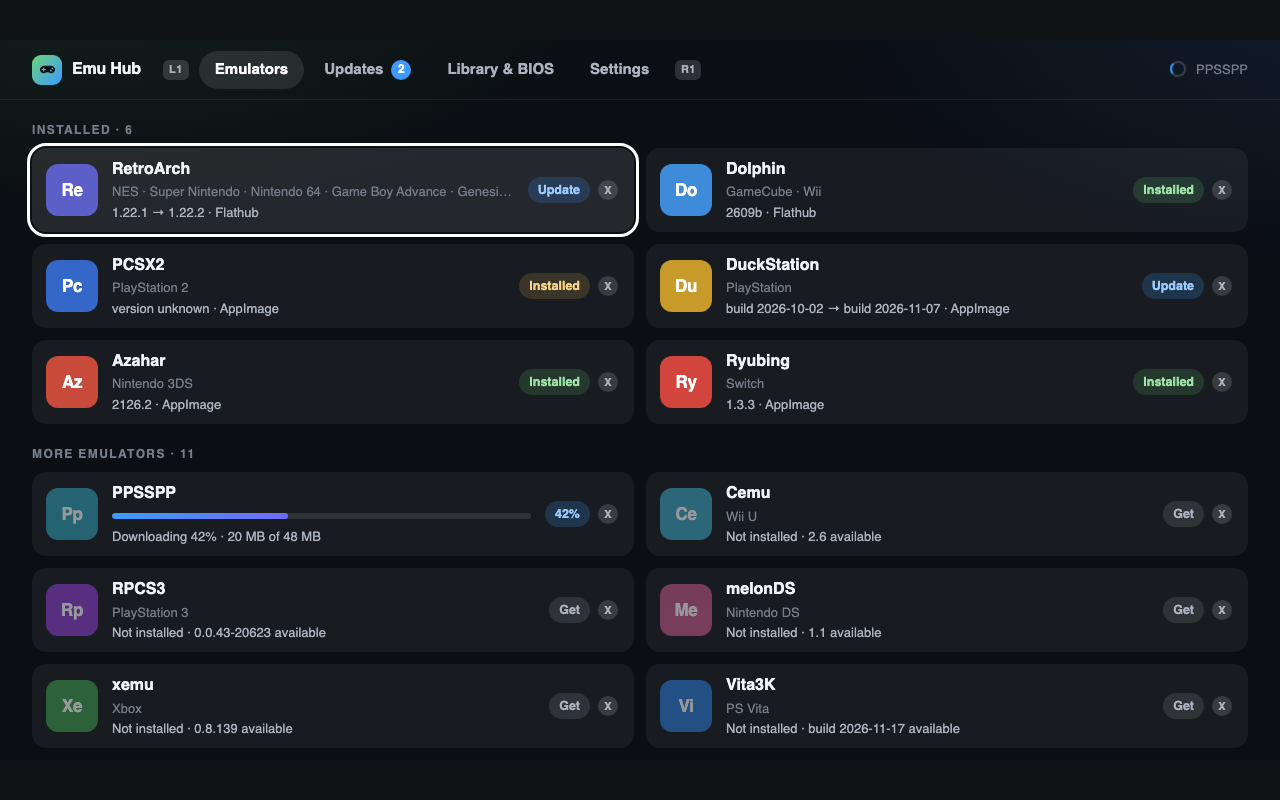
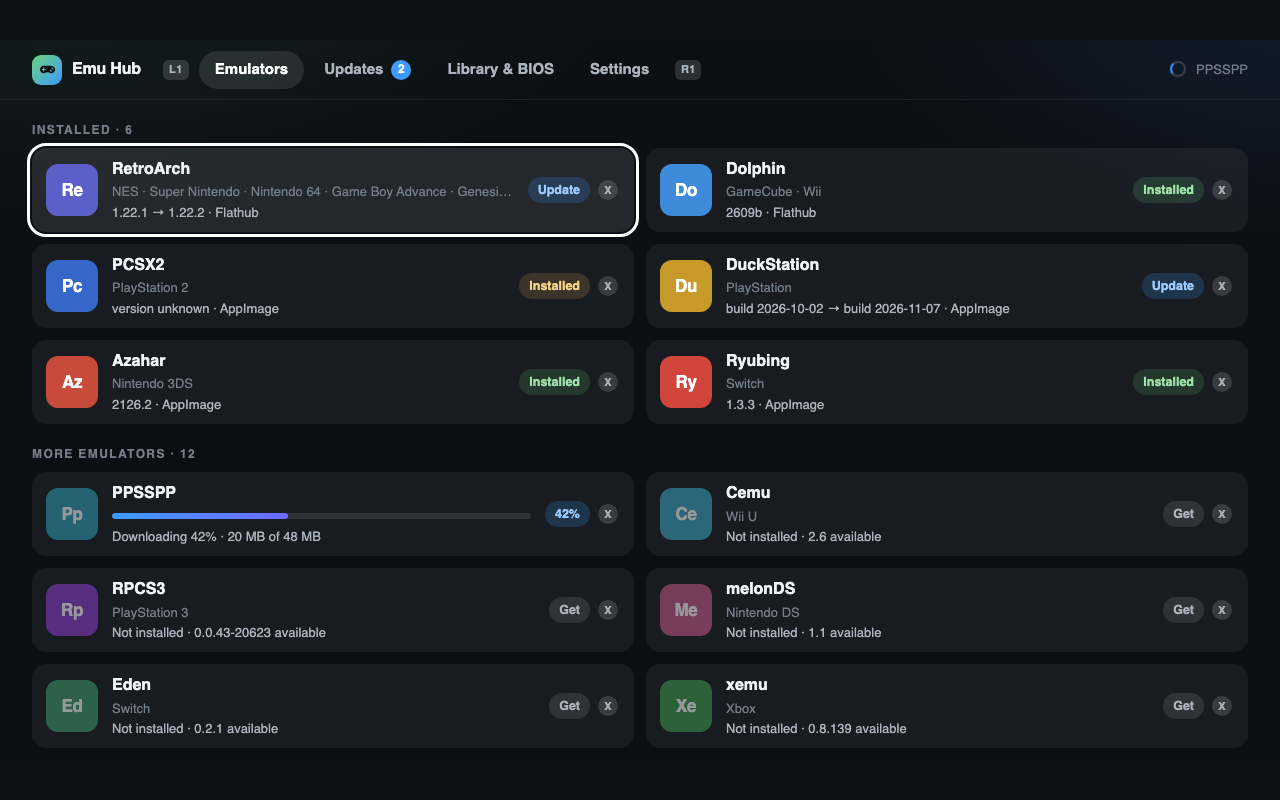
Add Eden (Switch): Forgejo releases, Flathub fallback, Deck preset with Qt game list, keys check

diff --git a/tools/preview/mock-api.ts b/tools/preview/mock-api.ts
@@ -67,6 +67,7 @@ const EMULATORS: Emulator[] = [
   base({ id: "ryubing", name: "Ryubing", consoles: ["Switch"], method: "appimage", source: "forgejo", blurb: "Nintendo Switch (the maintained Ryujinx). Needs your own keys and firmware.",
     installed: app("Ryujinx.AppImage", "1.3.3"), latest: "1.3.3",
     preset: { state: "waiting", summary: "Fullscreen, Switch folder in the game list, no exit prompt, no update check, docked mode.", backup: false } }),
+  base({ id: "eden", name: "Eden", consoles: ["Switch"], method: "appimage", source: "forgejo", blurb: "Nintendo Switch (from the yuzu family). Needs your own keys and firmware.", latest: "0.2.1" }),
   base({ id: "xemu", name: "xemu", consoles: ["Xbox"], method: "appimage", source: "github", blurb: "Original Xbox.", latest: "0.8.139" }),
   base({ id: "vita3k", name: "Vita3K", consoles: ["PS Vita"], method: "appimage", source: "github", blurb: "PlayStation Vita.", latest: "build 2026-11-17" }),
   base({ id: "shadps4", name: "shadPS4", consoles: ["PlayStation 4"], method: "flatpak", source: "flathub", blurb: "PlayStation 4 (early; few games run well).", latest: "0.20.0" }),
@@ -139,7 +140,7 @@ const library = (): LibraryInfo => ({
     { console: "psx", label: "PlayStation BIOS", files: ["scph5501.bin", "scph5500.bin", "scph5502.bin"], hint: null, optional: false, found: "/home/deck/Emulation/bios/scph5501.bin", folder: "/home/deck/Emulation/bios" },
     { console: "ps2", label: "PlayStation 2 BIOS", files: [], hint: "any PS2 BIOS dump (.bin) for PCSX2", optional: false, found: null, folder: "/home/deck/Emulation/bios" },
     { console: "ps3", label: "PS3 system software", files: [], hint: "install PS3UPDAT.PUP from inside RPCS3 (File → Install Firmware)", optional: false, found: null, folder: null },
-    { console: "switch", label: "Switch keys", files: [], hint: "prod.keys from your own Switch, then firmware from inside Ryubing", optional: false, found: null, folder: null },
+    { console: "switch", label: "Switch keys", files: [], hint: "prod.keys from your own Switch, then firmware from inside Ryubing or Eden", optional: false, found: null, folder: null },
     { console: "dreamcast", label: "Dreamcast BIOS", files: ["dc/dc_boot.bin", "dc_boot.bin"], hint: "Flycast runs most games without it", optional: true, found: null, folder: "/home/deck/Emulation/bios" },
     { console: "nds", label: "DS BIOS and firmware", files: ["bios7.bin", "bios9.bin", "firmware.bin"], hint: "melonDS runs most games without them", optional: true, found: null, folder: "/home/deck/Emulation/bios" },
   ],

diff --git a/src/components/ui.tsx b/src/components/ui.tsx
@@ -29,7 +29,7 @@ export const Progress: FC<{ value: number }> = ({ value }) => (
 /** A colour per emulator, for its icon tile. */
 const TINTS: Record<string, string> = {
   retroarch: "#5b5fc7", dolphin: "#3d8bd9", pcsx2: "#3567c9", duckstation: "#c79a2a", ppsspp: "#2f9fb8",
-  cemu: "#3aa3c2", rpcs3: "#8c3fd0", azahar: "#c74a3a", melonds: "#c45a8a", ryubing: "#d2453c",
+  cemu: "#3aa3c2", rpcs3: "#8c3fd0", azahar: "#c74a3a", melonds: "#c45a8a", ryubing: "#d2453c", eden: "#3f9b6e",
   xemu: "#3e9b4f", vita3k: "#2b7ad6", shadps4: "#5b6ad6", flycast: "#d9822b", primehack: "#d06a2a",
   scummvm: "#46a36a", mame: "#8a8f99",
 };

diff --git a/tests/test_configs.py b/tests/test_configs.py
@@ -60,6 +60,21 @@ class FormatTest(unittest.TestCase):
         self.assertEqual(out["game_dirs"], ["/mine", "/lib/switch"])
         self.assertTrue(out["start_fullscreen"])
 
+    def test_qt_gamedirs(self):
+        text = (
+            "[UI]\nPaths\\gamedirs\\1\\path=SDMC\nPaths\\gamedirs\\2\\path=UserNAND\n"
+            "Paths\\gamedirs\\size=2\nfullscreen=false\n[System]\nuse_docked_mode=1\n"
+        )
+        self.assertEqual(configfmt.qt_gamedirs(text), ["SDMC", "UserNAND"])
+        out = configfmt.qt_gamedir_add(text, "/lib/roms/switch")
+        self.assertEqual(configfmt.qt_gamedirs(out), ["SDMC", "UserNAND", "/lib/roms/switch"])
+        self.assertEqual(configfmt.ini_get(out, "UI", "Paths\\gamedirs\\size"), "3")
+        self.assertEqual(configfmt.ini_get(out, "UI", "Paths\\gamedirs\\3\\deep_scan"), "false")
+        self.assertEqual(configfmt.qt_gamedir_add(out, "/lib/roms/switch"), out)      # never twice
+        self.assertIn("[System]\nuse_docked_mode=1", out)                              # other sections kept
+        empty = configfmt.qt_gamedir_add("", "/r")
+        self.assertEqual(configfmt.qt_gamedirs(empty), ["/r"])
+
     def test_xml_keeps_the_rest_of_the_file(self):
         text = (
             '<?xml version="1.0" encoding="UTF-8"?>\n<content>\n\t<logflag>0</logflag>\n'
@@ -178,6 +193,22 @@ class PresetTest(unittest.TestCase):
         self.assertEqual(data["version"], 73)
         self.assertEqual(data["game_dirs"], [f"{self.root}/roms/switch"])
 
+    def test_eden_preset(self):
+        target = self.path(".config/eden/qt-config.ini")
+        self.assertEqual(presets.status("eden", "appimage", self.home, self.root), "waiting")
+        os.makedirs(os.path.dirname(target))
+        with open(target, "w") as handle:
+            handle.write("[UI]\nfullscreen=false\nfullscreen\\default=true\nPaths\\gamedirs\\1\\path=SDMC\n"
+                         "Paths\\gamedirs\\size=1\n[Renderer]\nbackend=1\n")
+        self.assertTrue(presets.apply("eden", "eden", "appimage", self.home, self.root, self.backups)["ok"])
+        self.assertEqual(presets.status("eden", "appimage", self.home, self.root), "applied")
+        with open(target) as handle:
+            text = handle.read()
+        self.assertEqual(configfmt.ini_get(text, "UI", "fullscreen"), "true")
+        self.assertEqual(configfmt.ini_get(text, "UI", "fullscreen\\default"), "false")
+        self.assertEqual(configfmt.qt_gamedirs(text), ["SDMC", f"{self.root}/roms/switch"])
+        self.assertIn("[Renderer]\nbackend=1", text)
+
     def test_emudeck_folder_names_win(self):
         os.makedirs(os.path.join(self.root, "roms", "gamecube"))
         self.assertTrue(presets.apply("dolphin", "dolphin", "flatpak", self.home, self.root, self.backups)["ok"])
@@ -204,7 +235,7 @@ class PresetTest(unittest.TestCase):
                 for spec in files:
                     if not spec.get("create"):
                         os.makedirs(os.path.dirname(spec["abs"]), exist_ok=True)
-                        seed = {"json": "{}", "xml": "<content></content>", "yaml": "Core:\n  x: 1\n"}[spec["format"]]
+                        seed = {"json": "{}", "xml": "<content></content>", "yaml": "Core:\n  x: 1\n", "qtini": "[UI]\n"}[spec["format"]]
                         with open(spec["abs"], "w") as handle:
                             handle.write(seed)
                 if not files:

diff --git a/backend/presets.py b/backend/presets.py
@@ -230,6 +230,25 @@ PRESETS: Dict[str, Dict[str, Any]] = {
                     "docked_mode": True, "game_dirs": ["{roms:switch}"]},
         }],
     },
+    # UNTESTED ON A DECK. Key names from EmuDeck's configs/eden/config/qt-config.ini.
+    # A Qt key with `\\default=true` beside it is ignored, so both are written.
+    "eden": {
+        "summary": "Fullscreen, Switch folder in the game list, no exit prompt, no first-start wizard.",
+        "files": [{
+            "path": {"appimage": ".config/eden/qt-config.ini",
+                     "flatpak": ".var/app/dev.eden_emu.eden/config/eden/qt-config.ini"},
+            "format": "qtini",
+            "create": False,
+            "set": {
+                "keys": {"UI": {
+                    "fullscreen": "true", "fullscreen\\default": "false",
+                    "confirmClose": "false", "confirmClose\\default": "false",
+                    "firstStart": "false", "firstStart\\default": "false",
+                }},
+                "gamedirs": ["{roms:switch}"],
+            },
+        }],
+    },
     # UNTESTED ON A DECK
     "xemu": {
         "summary": "No welcome screen, no boot animation, MCPX boot ROM from the BIOS folder.",
@@ -302,6 +321,12 @@ def _apply_format(fmt: str, text: str, updates: Any, sep: Optional[str]) -> str:
         return configfmt.xml_set(text, updates)
     if fmt == "yaml":
         return configfmt.yaml_set(text, updates)
+    if fmt == "qtini":
+        # Qt settings (yuzu family): plain keys, plus folders for the game list.
+        text = configfmt.ini_set(text, updates.get("keys", {}), sep="=")
+        for folder in updates.get("gamedirs", []):
+            text = configfmt.qt_gamedir_add(text, folder)
+        return text
     raise ValueError(fmt)
 
 
@@ -317,6 +342,10 @@ def _read_back(fmt: str, text: str, updates: Any) -> bool:
         return all(configfmt.same(configfmt.json_get(text, key), wanted) for key, wanted in updates.items())
     if fmt == "xml":
         return all(configfmt.same(configfmt.xml_get(text, key), wanted) for key, wanted in updates.items())
+    if fmt == "qtini":
+        dirs = configfmt.qt_gamedirs(text)
+        return (_read_back("ini", text, updates.get("keys", {}))
+                and all(folder in dirs for folder in updates.get("gamedirs", [])))
     return False
 
 

diff --git a/backend/configfmt.py b/backend/configfmt.py
@@ -256,6 +256,39 @@ def xml_get(text: str, tag: str) -> Any:
     return "" if "<" in inner else _xml_unescape(inner)
 
 
+def qt_gamedirs(text: str, section: str = "UI") -> List[str]:
+    """Folders in a Qt settings list `Paths\\gamedirs\\<n>\\path` (yuzu family)."""
+    lines = text.splitlines()
+    pattern = re.compile(r"^\s*Paths\\gamedirs\\(\d+)\\path\s*=\s*(.*?)\s*$")
+    found: List[Tuple[int, str]] = []
+    for name, start, end in _sections(lines):
+        if name != section:
+            continue
+        for i in range(start, end):
+            m = pattern.match(lines[i])
+            if m:
+                found.append((int(m.group(1)), m.group(2)))
+    return [path for _, path in sorted(found)]
+
+
+def qt_gamedir_add(text: str, path: str, section: str = "UI") -> str:
+    """Append a folder to that list (index size+1, then size), unless it is there."""
+    if path in qt_gamedirs(text, section):
+        return text
+    try:
+        size = int(ini_get(text, section, "Paths\\gamedirs\\size") or 0)
+    except ValueError:
+        size = 0
+    n = max(size, len(qt_gamedirs(text, section))) + 1
+    base = f"Paths\\gamedirs\\{n}\\"
+    return ini_set(text, {section: {
+        base + "deep_scan": "false", base + "deep_scan\\default": "true",
+        base + "expanded": "true", base + "expanded\\default": "true",
+        base + "path": path,
+        "Paths\\gamedirs\\size": str(n),
+    }}, sep="=")
+
+
 def yaml_scalar(value: Any) -> str:
     if isinstance(value, bool):
         return "true" if value else "false"

diff --git a/tests/test_install.py b/tests/test_install.py
@@ -80,6 +80,14 @@ class DetectTest(unittest.TestCase):
         self.assertIn("vita3k", found)
         self.assertIn("ryubing", found)
 
+    def test_emudeck_eden_appimage(self):
+        write(os.path.join(self.home, "Applications", "Eden.AppImage"), ELF)
+        found = detect.detect_all(self.home, {}, {})
+        self.assertEqual(found["eden"]["method"], "appimage")
+        self.assertNotIn("ryubing", found)
+        found = detect.detect_all(tempfile.mkdtemp(), {}, {"dev.eden_emu.eden": {"version": "0.2.1", "installation": "user"}})
+        self.assertEqual(found["eden"]["app_id"], "dev.eden_emu.eden")
+
     def test_flathub_copy_of_an_appimage_emulator(self):
         found = detect.detect_all(self.home, {}, {"org.ppsspp.PPSSPP": {"version": "1.20.3", "installation": "system"}})
         self.assertEqual(found["ppsspp"], {"method": "flatpak", "app_id": "org.ppsspp.PPSSPP", "version": "1.20.3",
@@ -130,6 +138,9 @@ class BiosTest(unittest.TestCase):
         write(os.path.join(folder, "SCPH-70012_BIOS_V12_USA_200.BIN"))
         self.assertTrue(bios.report(["ps2"], folder, home)[0]["found"].endswith("200.BIN"))
         self.assertTrue(report["switch"]["found"].endswith("prod.keys"))
+        eden_only = tempfile.mkdtemp()
+        write(os.path.join(eden_only, ".local", "share", "eden", "keys", "prod.keys"))
+        self.assertIn("/eden/keys/prod.keys", bios.report(["switch"], folder, eden_only)[0]["found"])
 
 
 class Server:

diff --git a/backend/catalogue.py b/backend/catalogue.py
@@ -164,6 +164,23 @@ EMULATORS: List[Dict[str, Any]] = [
         "preset": "ryubing",
     },
     {
+        "id": "eden",
+        "name": "Eden",
+        "blurb": "Nintendo Switch (from the yuzu family). Needs your own keys and firmware.",
+        "consoles": ["switch"],
+        "method": "appimage",
+        "file": "Eden.AppImage",
+        # Eden's GitHub releases repository was taken down (DMCA, March 2026);
+        # it publishes from its own Forgejo, files served by stable.eden-emu.dev.
+        # amd64 builds need x86-64-v3, which the Deck's Zen 2 has; "legacy" is
+        # for older CPUs. clang-pgo is the build Eden recommends.
+        "source": {"type": "forgejo", "api": "https://git.eden-emu.dev/api/v1/repos/eden-emu/eden",
+                   "asset": r"^Eden-Linux-v[0-9.]+-amd64-clang-pgo\.AppImage$"},
+        "flatpak_alt": "dev.eden_emu.eden",
+        "detect": [r"^eden.*\.appimage$"],
+        "preset": "eden",
+    },
+    {
         "id": "xemu",
         "name": "xemu",
         "blurb": "Original Xbox. Needs your own BIOS, MCPX boot ROM and hard disk image.",

diff --git a/tests/test_catalogue.py b/tests/test_catalogue.py
@@ -29,7 +29,7 @@ class CatalogueTest(unittest.TestCase):
 
     def test_required_emulators_present(self):
         for wanted in ("retroarch", "dolphin", "pcsx2", "duckstation", "ppsspp", "cemu", "rpcs3", "azahar",
-                       "melonds", "ryubing", "xemu", "vita3k", "shadps4", "flycast", "scummvm", "mame", "primehack"):
+                       "melonds", "ryubing", "eden", "xemu", "vita3k", "shadps4", "flycast", "scummvm", "mame", "primehack"):
             self.assertIn(wanted, catalogue.BY_ID)
 
     def test_every_source_has_a_fixture_and_picks_one_linux_file(self):
@@ -42,6 +42,7 @@ class CatalogueTest(unittest.TestCase):
             "azahar": ("azahar.AppImage", "2126.2"),
             "melonds": ("melonDS-1.1-appimage-x86_64.zip", "1.1"),
             "ryubing": ("ryujinx-1.3.3-x64.AppImage", "1.3.3"),
+            "eden": ("Eden-Linux-v0.2.1-amd64-clang-pgo.AppImage", "0.2.1"),
             "xemu": ("xemu-0.8.139-x86_64.AppImage", "0.8.139"),
             "vita3k": ("Vita3K-x86_64.AppImage", None),
             "flycast": ("flycast-x86_64-2.7.AppImage", "2.7"),

diff --git a/backend/bios.py b/backend/bios.py
@@ -37,8 +37,10 @@ BIOS: Dict[str, Dict[str, Any]] = {
     "switch": {
         "label": "Switch keys",
         "home_paths": [".config/Ryujinx/system/prod.keys",
-                       ".var/app/io.github.ryubing.Ryujinx/config/Ryujinx/system/prod.keys"],
-        "hint": "prod.keys from your own Switch, then firmware from inside Ryubing",
+                       ".var/app/io.github.ryubing.Ryujinx/config/Ryujinx/system/prod.keys",
+                       ".local/share/eden/keys/prod.keys",
+                       ".var/app/dev.eden_emu.eden/data/eden/keys/prod.keys"],
+        "hint": "prod.keys from your own Switch, then firmware from inside Ryubing or Eden",
     },
     "xbox": {
         "label": "Xbox MCPX boot ROM",

diff --git a/tests/test_service.py b/tests/test_service.py
@@ -46,7 +46,7 @@ class ServiceTest(unittest.TestCase):
     def test_state_and_update_check(self):
         state = asyncio.run(self.svc.check_updates(force=True))
         views = {v["id"]: v for v in state["emulators"]}
-        self.assertEqual(len(views), 17)
+        self.assertEqual(len(views), 18)
         self.assertEqual(views["pcsx2"]["installed"]["method"], "appimage")
         self.assertTrue(views["pcsx2"]["unknown_version"])
         self.assertFalse(views["pcsx2"]["update"])

diff --git a/AGENTS.md b/AGENTS.md
@@ -349,7 +349,7 @@ is installed…" and Settings stayed empty, because `configfmt.py` imported
 - **Presets are untested on a Deck**, each of them. PCSX2/DuckStation pad
   bindings assume the Deck's controller is SDL pad 0 under Steam Input (true
   for EmuDeck's configs, which use the same names). Dolphin, Cemu, Azahar,
-  Ryubing, xemu, Flycast get no controller mapping; their own auto-mapping
+  Ryubing, Eden, xemu, Flycast get no controller mapping; their own auto-mapping
   applies. melonDS, Vita3K, shadPS4, ScummVM and MAME have no preset yet.
 - shadPS4 is installed from Flathub: upstream's Linux zip is the command-line
   build, and the launcher with a game list is only published as pre-releases.
@@ -357,6 +357,17 @@ is installed…" and Settings stayed empty, because `configfmt.py` imported
   updated through flatpak, new installs use the AppImage.
 - Ryubing is on its own Forgejo (`git.ryujinx.app`), queried through its
   Gitea-style API (`/api/v1/repos/projects/Ryubing/releases/latest`).
+- Eden's GitHub releases repository (`eden-emulator/Releases`) was taken down
+  by a DMCA notice in March 2026 (HTTP 451). Eden publishes from its own
+  Forgejo (`git.eden-emu.dev/api/v1/repos/eden-emu/eden`); the files are
+  served by `stable.eden-emu.dev` and the API reports their size as 0, so the
+  free-space check uses Content-Length. The asset is the amd64 clang-pgo
+  AppImage (needs x86-64-v3, which the Deck's Zen 2 has; `legacy` is for
+  older CPUs). Flathub copy: `dev.eden_emu.eden`. EmuDeck's file name is
+  `Eden.AppImage`. Its preset (`qtini`: Qt settings plus the numbered
+  `Paths\gamedirs\<n>` list, `configfmt.qt_gamedir_add`) uses the key names
+  from EmuDeck's `configs/eden/config/qt-config.ini`; a Qt key with
+  `\default=true` next to it is ignored, so both are written.
 - New Flathub installs go to the user installation. Updating an app in the
   system installation (EmuDeck, Discover) assumes SteamOS's polkit rules let
   the deck user do that without a password prompt, as Discover does.

diff --git a/README.md b/README.md
@@ -4,7 +4,7 @@ Install, update and set up emulators on the Steam Deck without leaving Game
 Mode. A light EmuDeck, as a [Decky Loader](https://decky.xyz) plugin.
 
 - **One-button installs** for RetroArch, Dolphin, PCSX2, DuckStation, PPSSPP,
-  Cemu, RPCS3, Azahar, melonDS, Ryubing, xemu, Vita3K, shadPS4, Flycast,
+  Cemu, RPCS3, Azahar, melonDS, Ryubing, Eden, xemu, Vita3K, shadPS4, Flycast,
   PrimeHack, ScummVM and MAME, from each project's own releases (AppImages in
   `~/Applications`) or from Flathub.
 - **Updates**: a badge and a notification when a new version is out; update
